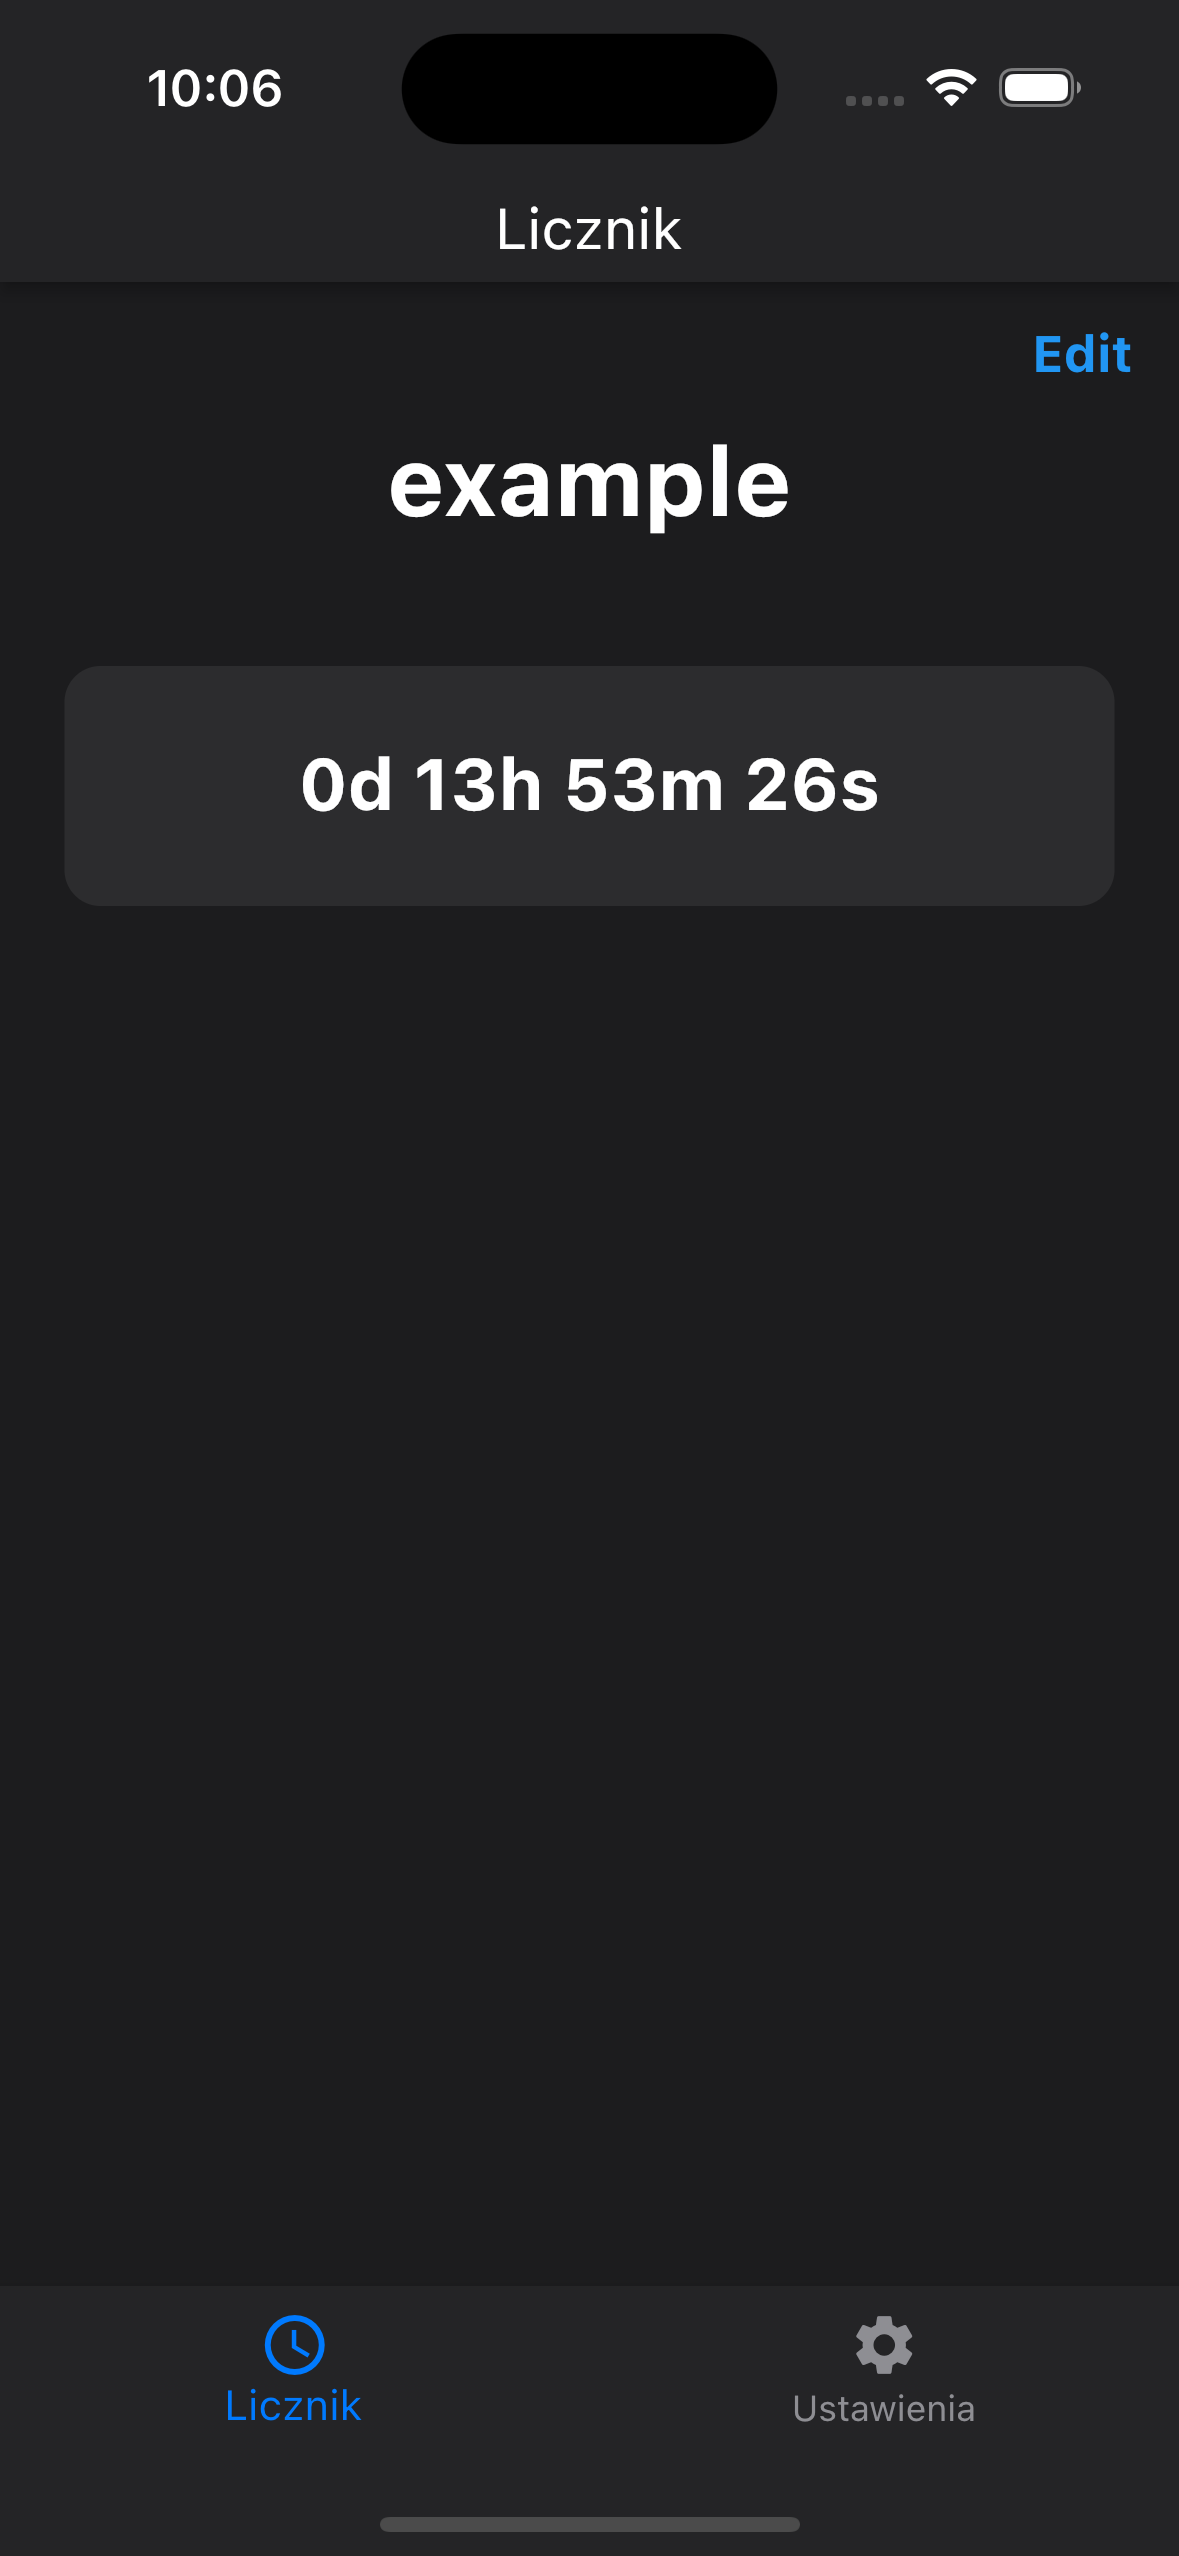
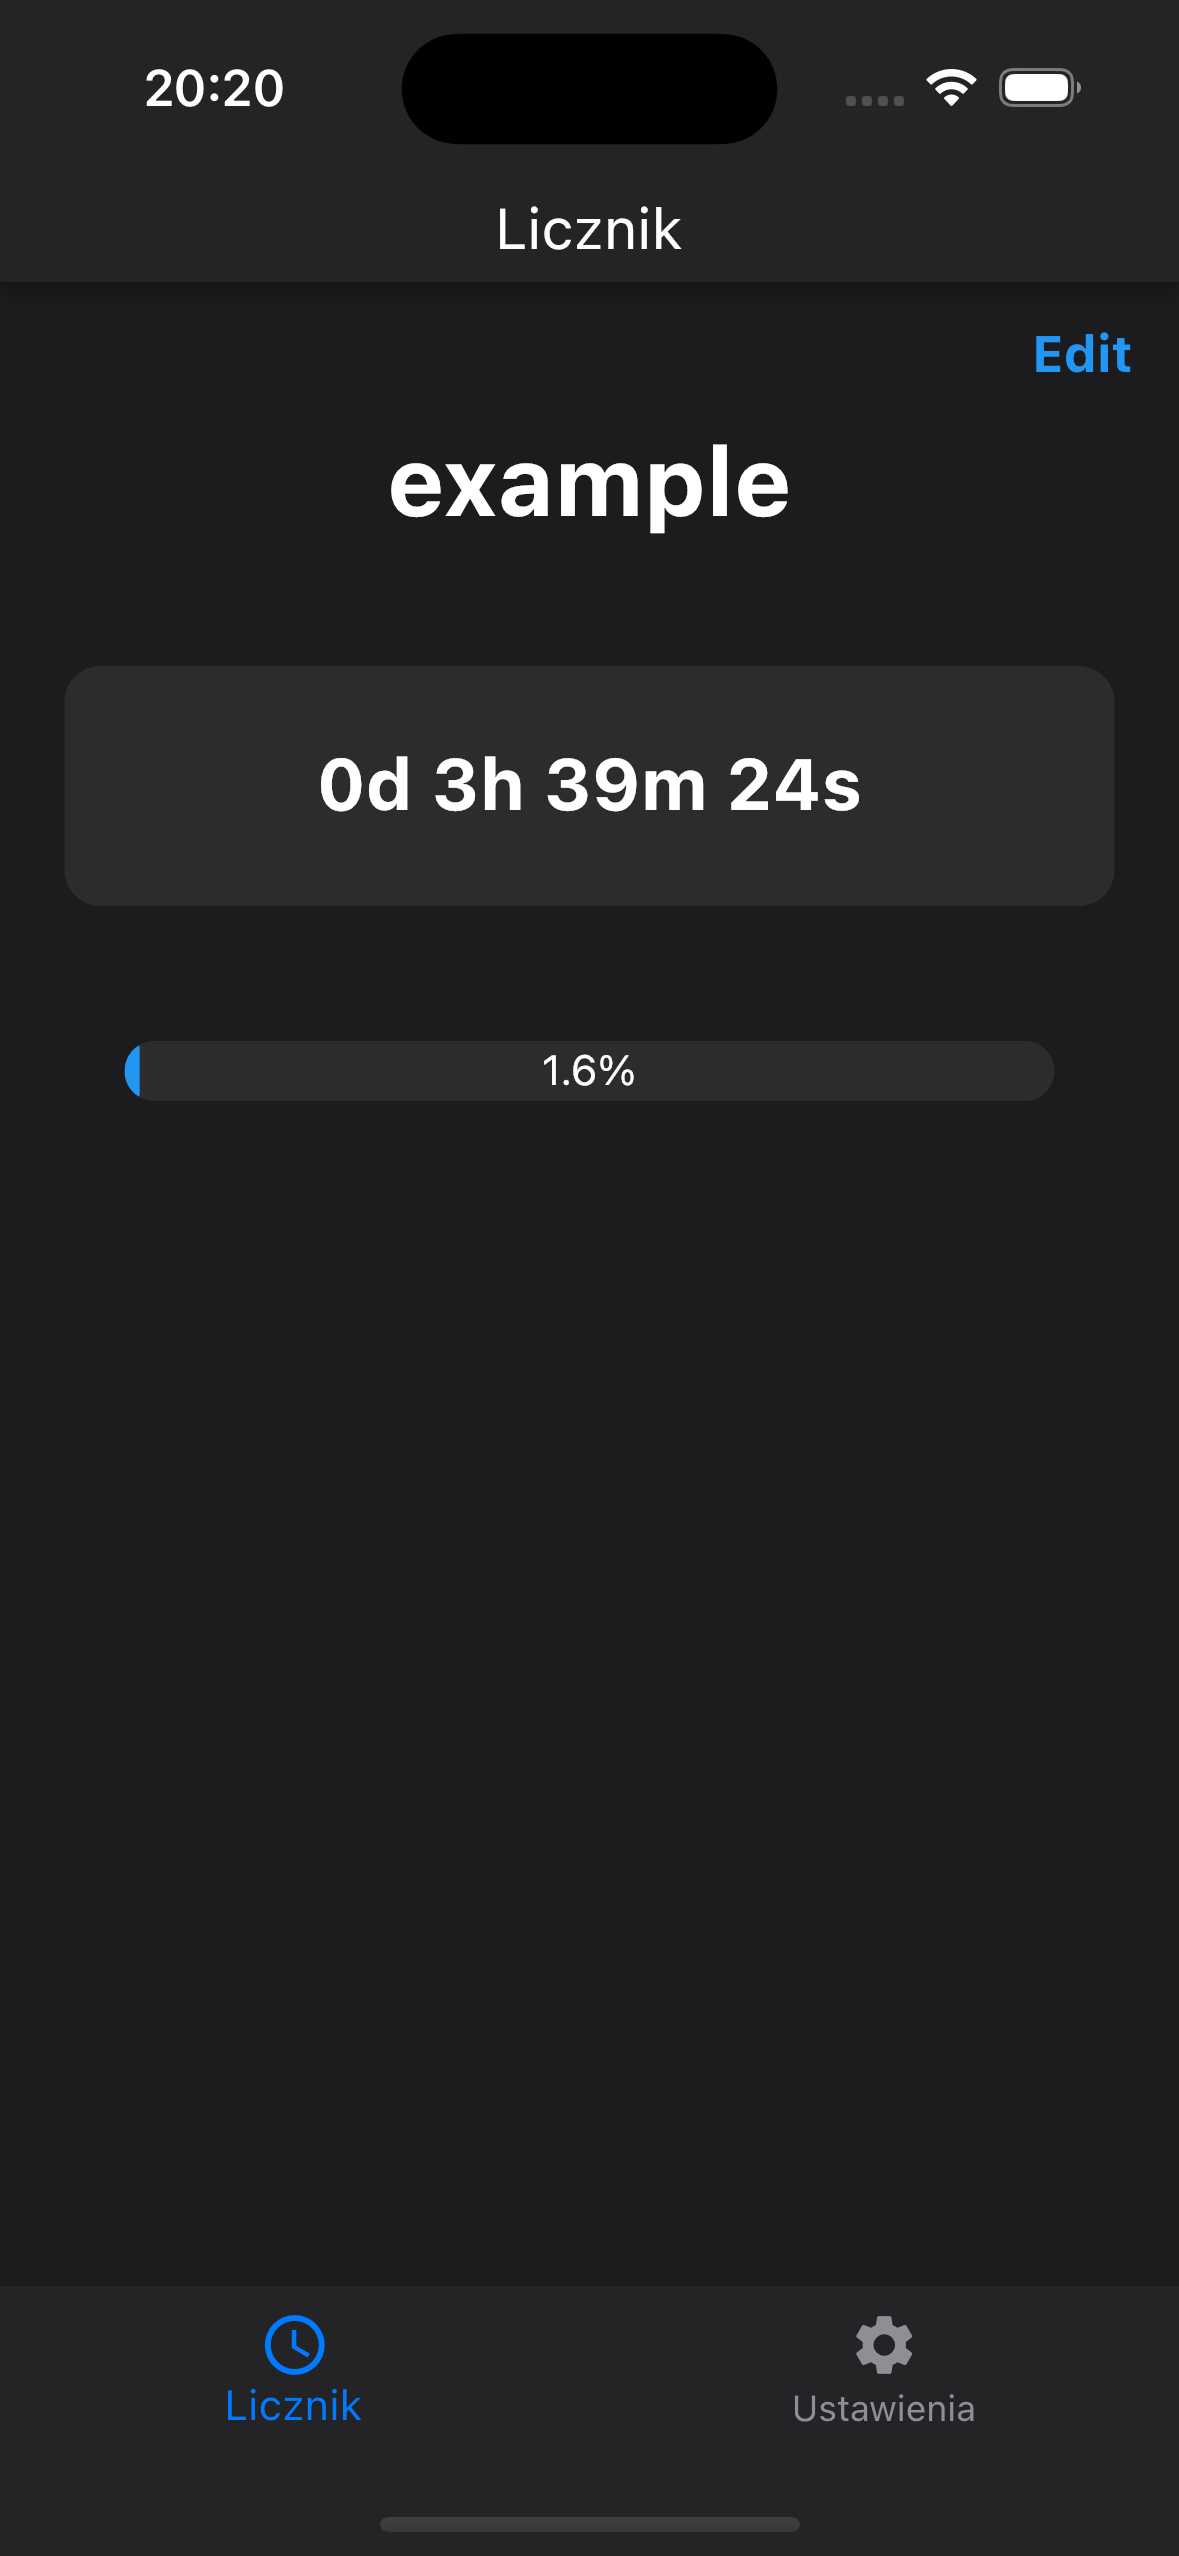
updated readme

diff --git a/README.md b/README.md
@@ -36,7 +36,7 @@ The project is created with:
 And tested on iPhone 15 Pro (iOS 17.0).
 
 ## What is this?
-The only feature of this app is counting to a given date, which has to be in the future. You can add only one timer, and you are able to give it a name. If the title field is left empty, there will be given a default name to the timer representing a date to which the countdown is set.
+The only feature of this app is counting to a given date, which has to be in the future. You can add only one timer, you are able to give it a name and see how much time has passed based on a percentage value. If the title field is left empty, there will be given a default name to the timer representing a date to which the countdown is set.
 
 ### Start Screen
 To add the timer, you only have to tap somewhere on the screen.<br>
@@ -81,10 +81,12 @@ Pull requests are welcome. For major changes, please open an issue first to disc
 **Project Status:** Completed, but additional features will be rolling out in the coming releases.
 
 ## Room for Improvement
+Room for Improvement:
+  * Add an option to set a custom start date to beging calculating percetage 
+
 
 To-do:
   * Implement a settings page by adding options for language change and theme change.
-  * Implement a percent widget that will allow users to see how much time has already passed.
 
 
 ## License
